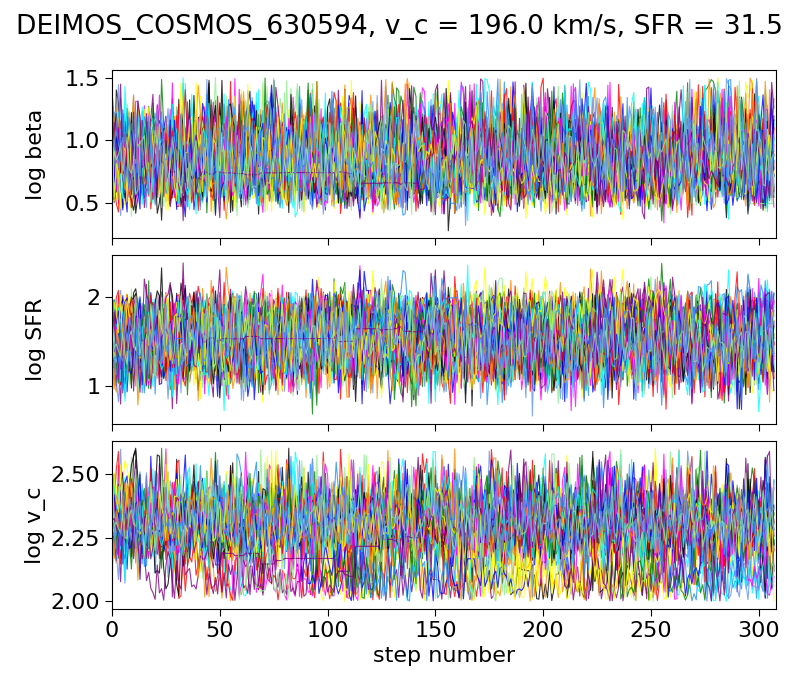
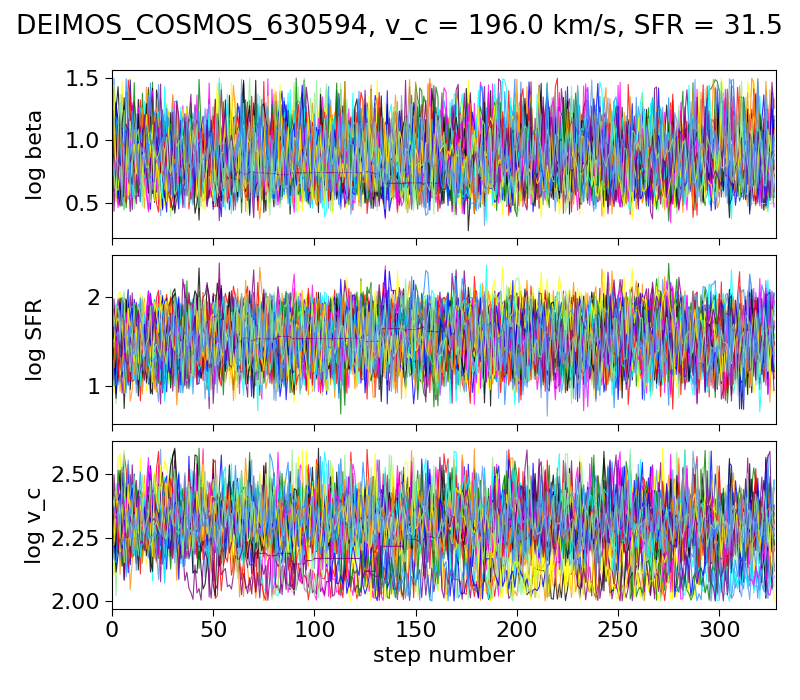
trying to resume not working ones

diff --git a/script/mcmc_main.py b/script/mcmc_main.py
@@ -30,10 +30,35 @@ gc.frtinitcf(0, os.path.join(my_dir.script_dir, "input_data", "cf_table.I2.dat")
 
 # preliminar parameters (TO CHECK EVERY TIME)
 
-
+store_data_loc = "quasar" # can be either quasar (the machine is quasar in leiden) or local (mac laptop) or github (for github)
 parallel = True
-optimization = True
+optimization = False
 model = "old"
+
+# selecting the object to fit
+
+data_counter = int(input("which data object?"))
+data = obs_data_list[data_counter]
+
+nwalkers = 48
+nsteps = int(input("number of steps?"))
+
+
+filename = "{}_{:.0f}_updated_{}".format(data.params_obs["name_short"], nsteps, model)
+
+folder = "data_emcee"
+if not os.path.exists(os.path.join(my_dir.data_dir, folder)):
+    os.mkdir(os.path.join(my_dir.data_dir, folder))
+
+if store_data_loc == "quasar":
+    path = os.path.join("/data2/pizzati/projects/outflows/data_mcmc", "{}.h5".format(filename))
+elif store_data_loc == "local":
+    path = os.path.join("/Users/eliapizzati/projects/outflows/data_mcmc", "{}.h5".format(filename))
+else:
+    path = os.path.join(my_dir.data_dir, folder, "{}.h5".format(filename))
+
+
+# parameters for the integration part
 
 rmax = 30
 h_resol = 500
@@ -45,18 +70,6 @@ integrator = "RK45"
 h = np.linspace(0.3, rmax, h_resol)
 h_ext = np.linspace(-rmax, rmax, 2 * h_resol)
 grid = np.meshgrid(h_ext, h_ext)
-
-data_counter = int(input("which data object?"))
-data = obs_data_list[data_counter]
-
-nwalkers = 48
-nsteps = int(input("number of steps?"))
-
-beta_best_fits = [5.5, 7.5, 6.4, 5.3, 5.9, 4.0, 8.2, 4.3]
-
-data.params_obs.update(beta_best_fit=beta_best_fits[data_counter])
-
-filename = "{}_{:.0f}_updated_{}".format(data.params_obs["name_short"], nsteps, model)
 
 redshift = data.params_obs["redshift"]
 
@@ -71,6 +84,10 @@ beam_func = interp1d(h, beam_interp, \
 
 beam_2d = beam_func(np.sqrt(grid[0] ** 2 + grid[1] ** 2))
 f_beam = np.fft.fft2(beam_2d)
+
+if not optimization:
+    beta_best_fits = [5.5, 7.5, 6.4, 5.3, 5.9, 4.0, 8.2, 4.3]
+    data.params_obs.update(beta_best_fit=beta_best_fits[data_counter])
 
 other_params = get_other_params(redshift, FWHM_vel, r_resol, cut, integrator)
 
@@ -92,14 +109,6 @@ logging.info("filename = {}".format(filename))
 
 logging.info("###################################################################")
 
-folder = "data_emcee"
-
-if not os.path.exists(os.path.join(my_dir.data_dir, folder)):
-    os.mkdir(os.path.join(my_dir.data_dir, folder))
-
-
-path = os.path.join(my_dir.data_dir, folder, "{}.h5".format(filename))
-path_machine = os.path.join("/data2/pizzati/projects/outflows/data_mcmc", "{}.h5".format(filename))
 
 log_likelihood.counter = 0
 
@@ -132,23 +141,24 @@ if optimization:
          for i in range(ndim)] for i in range(nwalkers)]
 
     print(pos)
+
 else:
 
-    theta_input = [np.log10(data.params_obs["beta_best_fit"]), data.params_obs["log_SFR"], data.params_obs["log_v_c"]]
+    # theta_input = [np.log10(data.params_obs["beta_best_fit"]), data.params_obs["log_SFR"], data.params_obs["log_v_c"]]
+    #
+    # ndim = len(theta_input)
+    #
+    # pos = theta_input + np.asarray([0.2, 0.2, 0.2]) * np.random.randn(nwalkers, ndim)
+    #
+    # # pos += np.asarray([0.5, 0., 0.]) * np.random.rand(nwalkers, ndim)
+    #
+    # pos[2][pos[2] < 1.] = 1. + np.abs(pos[2][pos[2] < 1.])
+    #
+    # pos[pos < 0.] = 1e-3
+    pos = None
 
-    ndim = len(theta_input)
-
-    pos = theta_input + np.asarray([0.2, 0.2, 0.2]) * np.random.randn(nwalkers, ndim)
-
-    # pos += np.asarray([0.5, 0., 0.]) * np.random.rand(nwalkers, ndim)
-
-    pos[2][pos[2] < 1.] = 1. + np.abs(pos[2][pos[2] < 1.])
-
-    pos[pos < 0.] = 1e-3
-
-
-backend = emcee.backends.HDFBackend(path_machine)
-backend.reset(nwalkers, ndim)
+backend = emcee.backends.HDFBackend(path)
+# backend.reset(nwalkers, ndim)
 
 
 if parallel:

diff --git a/script/mcmc_post_analysis.py b/script/mcmc_post_analysis.py
@@ -30,12 +30,12 @@ plot2 = True #corners
 plot3 = False #emission
 plot4 = False #luminodity
 
-thin = 200
-discard = 1000
+thin = 1
+discard = 0
 
 
 nwalkers = 48
-nsteps = 100000#int(input("number of steps?"))
+nsteps = 100#int(input("number of steps?"))
 
 
 
@@ -59,16 +59,16 @@ print("###################################################################")
 
 folder_data = "data_emcee"
 
-if not os.path.exists(os.path.join(mydir.data_dir, folder_data)):
-    os.mkdir(os.path.join(mydir.data_dir, folder_data))
+if not os.path.exists(os.path.join(my_dir.data_dir, folder_data)):
+    os.mkdir(os.path.join(my_dir.data_dir, folder_data))
 
 folder_plot = "plot_emcee"
 
-if not os.path.exists(os.path.join(mydir.plot_dir, folder_plot)):
-    os.mkdir(os.path.join(mydir.plot_dir, folder_plot))
+if not os.path.exists(os.path.join(my_dir.plot_dir, folder_plot)):
+    os.mkdir(os.path.join(my_dir.plot_dir, folder_plot))
 
 
-path = os.path.join(mydir.data_dir, folder_data, "{}.h5".format(filename))
+path = os.path.join(my_dir.data_dir, folder_data, "{}.h5".format(filename))
 path_machine = os.path.join("/Users/eliapizzati/projects/outflows/data_mcmc", "{}.h5".format(filename))
 
 reader = emcee.backends.HDFBackend(path_machine)
@@ -132,7 +132,7 @@ if plot1:
     fig.suptitle("{0:}, v_c = {1:.1f} km/s, SFR = {2:.1f}".format(data.params_obs["name"], data.params_obs["v_c"],
                                                                   data.params_obs["SFR"]))
 
-    plt.savefig(os.path.join(mydir.plot_dir, folder_plot, "chain_{}.png".format(filename)))
+    plt.savefig(os.path.join(my_dir.plot_dir, folder_plot, "chain_{}.png".format(filename)))
 
 
 if plot2:
@@ -244,7 +244,7 @@ if plot2:
     #fig.suptitle("{0:}, v_c = {1:.1f} km/s, SFR = {2:.1f}".format(data.params_obs["name"], data.params_obs["v_c"],
     #                                                              data.params_obs["SFR"]))
 
-    plt.savefig(os.path.join(mydir.plot_dir, folder_plot, "corner_{}.png".format(filename)))
+    plt.savefig(os.path.join(my_dir.plot_dir, folder_plot, "corner_{}.png".format(filename)))
 
 
 
@@ -296,7 +296,7 @@ if plot3:
 
     fig_int_conv.legend(loc="lower center", ncol=8, fontsize="small")
 
-    plt.savefig(os.path.join(mydir.plot_dir, folder_plot, "emission_{}.png".format(filename)))
+    plt.savefig(os.path.join(my_dir.plot_dir, folder_plot, "emission_{}.png".format(filename)))
 
 
 
@@ -357,7 +357,7 @@ if plot4:
 
     fig_int_conv.legend(loc="lower center", ncol=8, fontsize="small")
 
-    plt.savefig(os.path.join(mydir.plot_dir, folder_plot, "emission_{}.png".format(filename)))
+    plt.savefig(os.path.join(my_dir.plot_dir, folder_plot, "emission_{}.png".format(filename)))
 
     print(luminosities)
     print("model lum",np.percentile(luminosities/1e9, [18,50,84])[1], np.percentile(luminosities/1e9, [18,50,84])[1]-np.percentile(luminosities/1e9, [18,50,84])[0],
